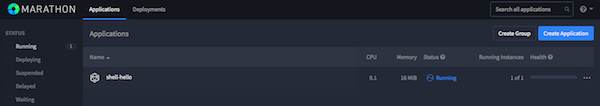
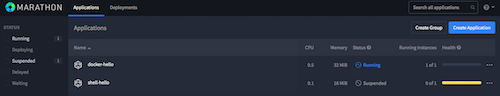
improve the documentation for the mesosphere fittings plan

diff --git a/fittings/containers/mesosphere-cluster/README.md b/fittings/containers/mesosphere-cluster/README.md
@@ -1,23 +1,34 @@
-# Mesosphere cluster, with 3 masters and 9 slaves
+# Mesosphere cluster with Docker, on 3 masters and 9 slaves
 
 The objective of this use case is to deploy a large cluster of Mesosphere nodes at the [Managed Cloud Platform from Dimension Data](http://cloud.dimensiondata.com/eu/en/).
 This is done with [plumbery](https://developer.dimensiondata.com/display/PLUM/Plumbery) and a template that is provided below.
 
 Mesosphere is a system that combines a number of components to effectively manage server clustering and highly available deployments on top of an existing operating system layer. Unlike systems like CoreOS, Mesosphere is not a specialized operating system and is instead a set of packages.
 
+Apache Mesos is an open source cluster manager developed at UC Berkeley. It provides resource isolation and sharing across distributed applications. The figure below shows the main components of Mesos.
+
+![Architecture](architecture.png)
+
+Mesos consists of a master daemon that manages slave daemons running on each cluster node. Mesos frameworks are applications that run on Mesos and run tasks on these slaves. Slaves are either physical or virtual machines, typically from the same provider.
+
+Mesos uses a two-level scheduling mechanism where resource offers are made to frameworks. The Mesos master node decides how many resources to offer each framework, while each framework determines the resources it accepts and what application to execute on those resources.
+
+Marathon is a container orchestration platform running on Mesos. Multiple container formats are supported and Docker is certainly the most common one!
+
+In this use case, we configure a highly available cluster in Mesosphere. This configuration will failover in case any master nodes goes down. It also has a pool of slave nodes to handle the tasks that are scheduled.
+
 ![Layout](layout.png)
 
-In this guide, we will go over how to configure a highly available cluster in Mesosphere. This configuration will set us up with failover in case any of our master nodes go down as well as a pool of slave nodes to handle the tasks that are scheduled.
-
-We will be using Ubuntu 14.04 servers for this guide.
+We will be using CentOS 7 servers for this guide.
+Docker is installed everywhere so that the cluster can run any kind of containers.
 
 ## Requirements for this use case
 
 * Select a MCP location
 * Add a Network Domain
 * Add an Ethernet network
-* Deploy 12 Ubuntu nodes -- 3 masters and 9 slaves
-* Provide a lot of resources to each slave
+* Deploy 12 CentOS nodes -- 3 masters and 9 slaves
+* Provide additional CPU, RAM, and disk to each node
 * Monitor all nodes in the real-time dashboard provided by Dimension Data
 * Assign a public IPv4 address to each node
 * Add address translation rules to ensure Internet connectivity with each node
@@ -28,11 +39,14 @@ We will be using Ubuntu 14.04 servers for this guide.
 * Install a new SSH key to secure remote communications
 * Configure SSH to reject passwords and to prevent access from root account
 * Update `etc/hosts` and `hostnames` to bind IPv6 addresses to host names
+* Extend the file system via LVM
+* Install Docker at all nodes
 * Install Mesosphere at all master nodes, and Mesos at all slaves
 * Configure Zookeeper, Mesos-master and Marathon at each master node
 * Configure Mesos at each slave node
 * Restart services to launch the cluster
-* Submit a sample job via the API to feed the cluster
+* Submit a sample shell job via the Marathon API to feed the cluster
+* Run a sample Docker container via the Marathon API to feed the cluster
 
 ## Fittings plan
 
@@ -60,7 +74,7 @@ To check the orchestration of activities you can go to any Marathon web interfac
 
 ![Marathon](marathon.png)
 
-This will show how Marathon is managing the job that was submitted during the
+This will show how Marathon is managing job that were submitted during the
 setup of the full cluster.
 
 To get more information you can check the Mesos cluster from web access to one master node.
